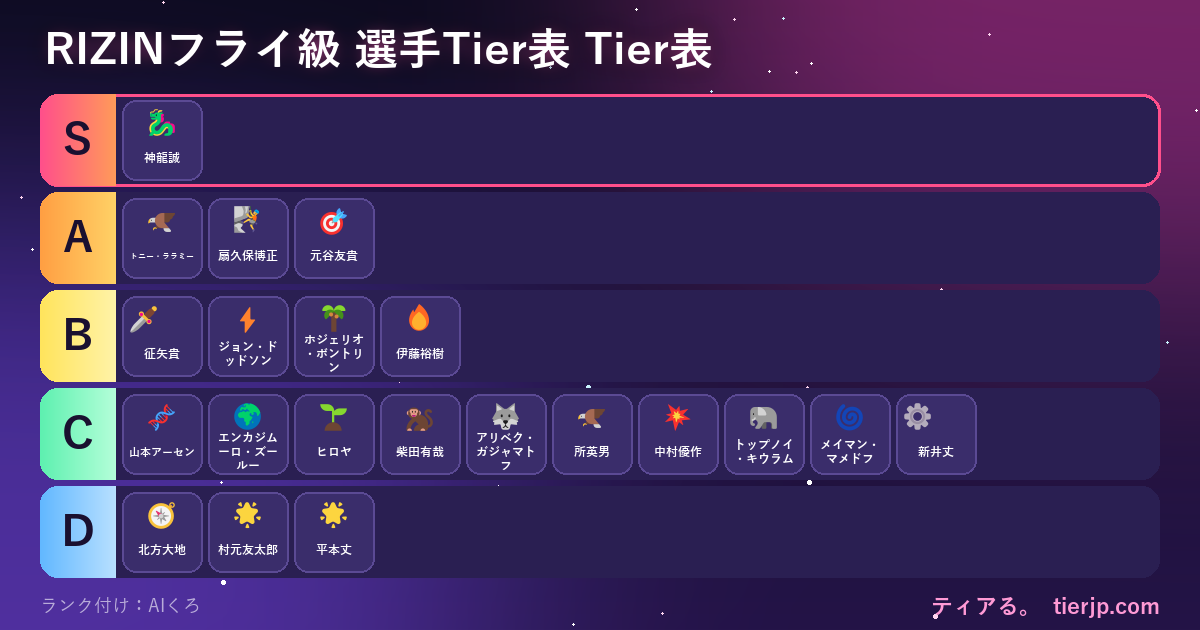
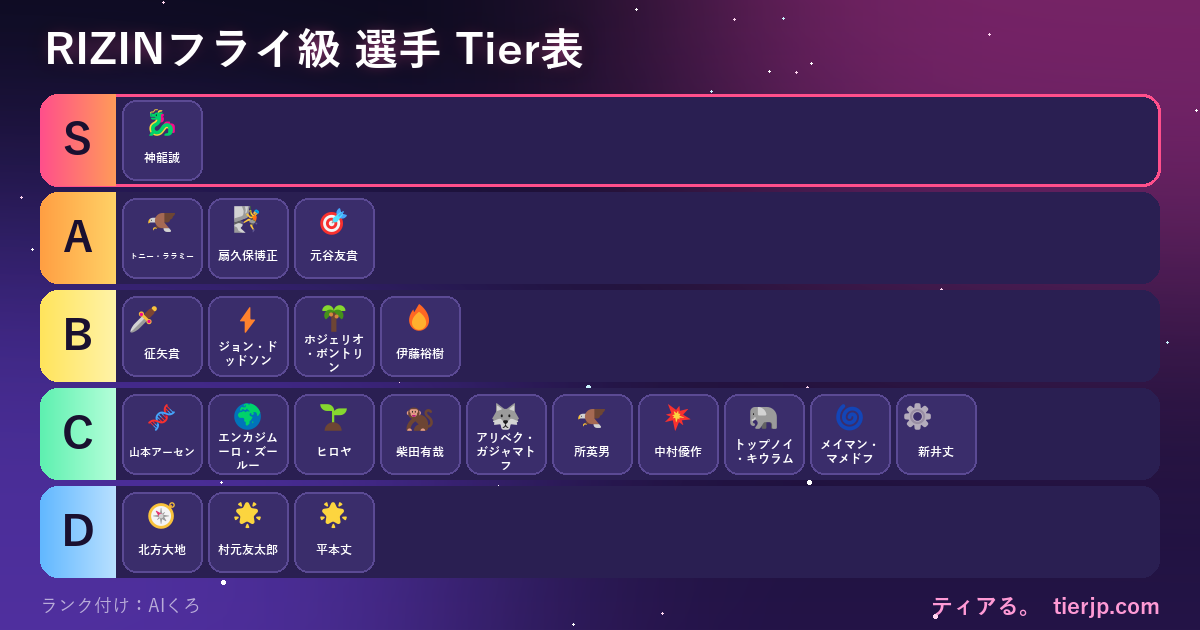
画像タイトルで「Tier表」が二重になるのを修正

Changed region(s): [[0.37, 0.0302, 0.6167, 0.1206]]

diff --git a/scripts/make_images.py b/scripts/make_images.py
@@ -216,7 +216,7 @@ def make(slug: str, data: dict) -> None:
         for x in data["tiers"].get(r) or []:
             x = x if isinstance(x, dict) else {"name": x}
             rows[r].append((str(x.get("short") or short_name(str(x["name"]))), str(x.get("emoji") or "")))
-    title = data["title"].replace(" Tier表", "")
+    title = data["title"].replace(" Tier表", "").replace("Tier表", "").strip()
 
     # 横長 1200x630（OG）
     img = night_bg(1200, 630, slug)
